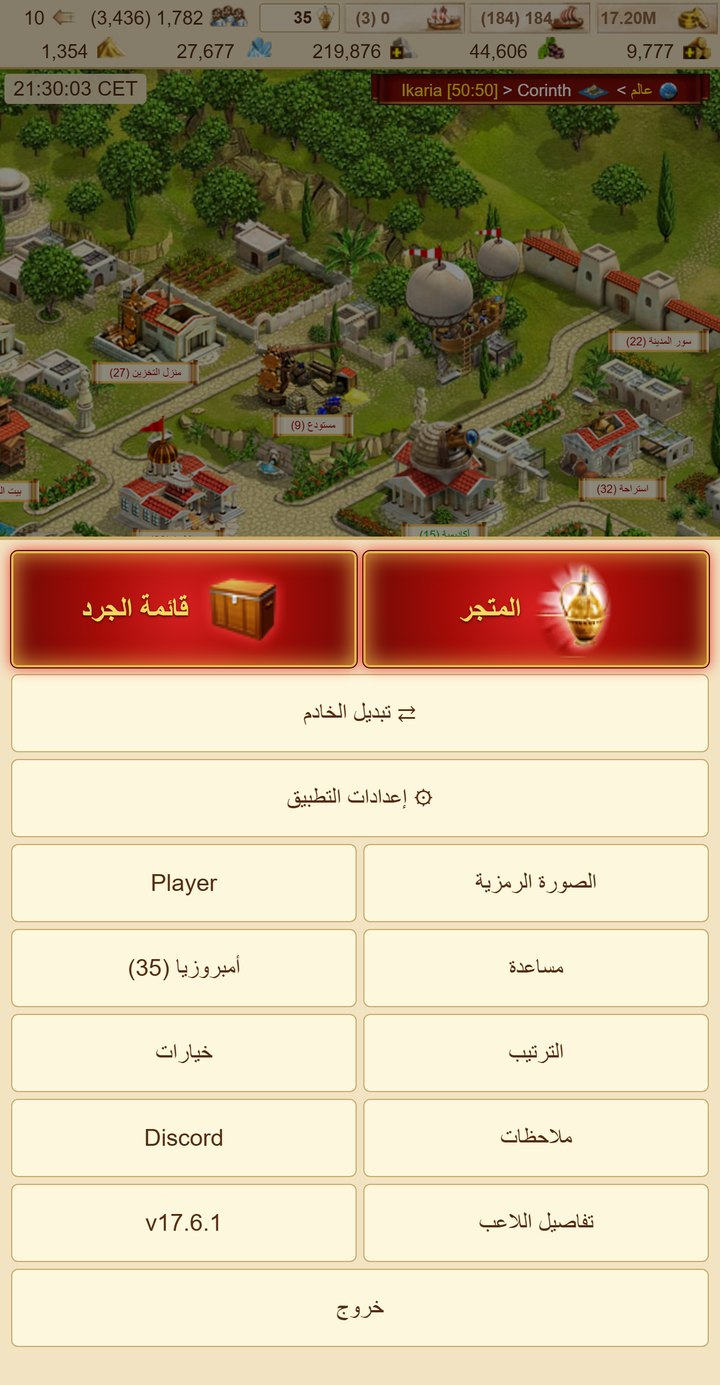
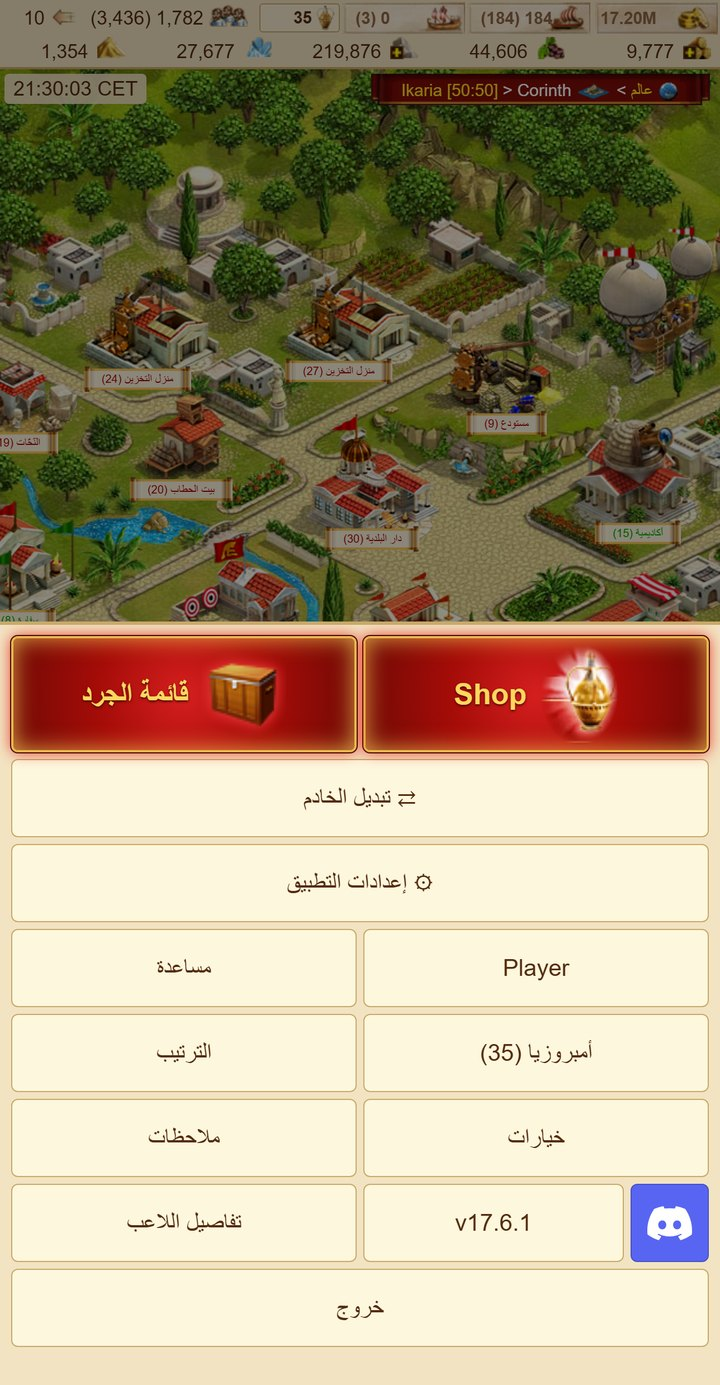
Project page: short top, big language buttons, tutorials playing, English pictures
- Each page starts with what the app is, a download button, the touch tutorial playing on a loop and six
  screenshots, all in that page's language (English pictures from the same made-up town as the Arabic ones)
- Language and download buttons drawn in the app's style; the long texts moved into fold-out sections
- More: Discord also recognised by its label (the square next to the version)

diff --git a/app/src/main/assets/enhance.js b/app/src/main/assets/enhance.js
@@ -2386,7 +2386,7 @@
     });
     // An odd number of links left a hole in the grid: Discord becomes a small square with its logo and
     // shares one cell with the version.
-    var dc = links.filter(function (l) { return /discord/i.test(l.a.href || ''); })[0];
+    var dc = links.filter(function (l) { return /discord/i.test(l.a.href || '') || /^discord$/i.test(l.label); })[0];
     var ver = links.filter(function (l) { return l.a.closest('.version'); })[0];
     var pair = links.length % 2 === 1 && dc && ver;
     links.forEach(function (l) {

diff --git a/README.ar.md b/README.ar.md
@@ -1,52 +1,61 @@
 <p align="center"><img src="docs/banner.jpg" width="100%" alt="Ikariam Mobile"></p>
 
-<p align="center"><a href="README.md"><b>English</b></a> &nbsp;|&nbsp; <b>العربية</b></p>
+<p align="center">
+<a href="README.md"><img src="docs/buttons/lang_en_off.svg" width="230" alt="Read in English"></a>
+&nbsp;
+<img src="docs/buttons/lang_ar_on.svg" width="230" alt="العربية">
+</p>
 
 <div dir="rtl">
 
-# <img src="docs/icon.png" width="40" align="center" alt=""> إيكاريام موبايل
+<h1 align="center"><img src="docs/icon.png" width="44" align="center" alt=""> إيكاريام موبايل</h1>
 
-تطبيق أندرويد للعب لعبة المتصفح **إيكاريام** براحة على الهاتف، وخاصةً في الوضع العمودي.
+<p align="center"><b>العب إيكاريام على هاتفك براحة، بإبهام واحد.</b><br>
+اللعبة الحقيقية، مرتّبة لهاتف في الوضع العمودي. مشروع غير رسمي من أحد اللاعبين.</p>
 
-هو متصفح مخصص: يفتح موقع إيكاريام الحقيقي ولا يغيّر إلا ترتيب الصفحة وطريقة وصول اللمس إليها. كل حركة في اللعبة تأتي من نقرتك أنت. وهو مشروع غير رسمي من أحد اللاعبين، ولا علاقة له بشركة Gameforge.
+<p align="center">
+<a href="https://github.com/sliver301/Ikariam-Mobile-APP/releases/latest"><img src="docs/buttons/download_ar.svg" width="380" alt="حمّل التطبيق"></a>
+</p>
 
-## التحميل
-
-**[حمّل أحدث نسخة APK](https://github.com/sliver301/Ikariam-Mobile-APP/releases/latest)**، وافتحها على هاتفك واسمح بالتثبيت من ذلك التطبيق عندما يطلب أندرويد ذلك. يحتاج أندرويد 12 أو أحدث. سجّل دخولك بحساب Gameforge كالمعتاد واختر خادمك، وسيتذكره التطبيق.
-
-**التحديثات:** يتحقق التطبيق من هذه الصفحة عند فتحه، ويعرض عليك تنزيل أي إصدار أحدث وتثبيته. أرقام الإصدارات تتبع اللعبة: التطبيق 1.17.6.1 مصنوع لإصدار اللعبة 17.6.1 (و1.17.6.1.1 هو الإصدار الثاني للتطبيق لنفس إصدار اللعبة). وعندما تنتقل اللعبة إلى إصدار جديد، يخبرك التطبيق بذلك مرة واحدة، تحسّباً لأي اختلاف في الشكل حتى يلحق به التطبيق.
-
-## صور من التطبيق
+<p align="center">
+<img src="docs/tutorial_ar.webp" width="300" alt="التحكم باللمس في 75 ثانية">
+<br><sub>التحكم باللمس في 75 ثانية · <a href="https://github.com/sliver301/Ikariam-Mobile-APP/releases/download/v1.1/Ikariam-Mobile-tutorial-ar.mp4">الفيديو بجودة كاملة</a></sub>
+</p>
 
 <p align="center">
 <img src="docs/screenshots/ar_1_city.jpg" width="30%" alt="المدينة">
 <img src="docs/screenshots/ar_2_wheel.jpg" width="30%" alt="عجلة المدن">
-<img src="docs/screenshots/ar_3_social.jpg" width="30%" alt="عمود التواصل">
+<img src="docs/screenshots/ar_4_window.jpg" width="30%" alt="نافذة مبنى">
 </p>
 <p align="center">
-<img src="docs/screenshots/ar_4_window.jpg" width="30%" alt="نافذة مبنى">
+<img src="docs/screenshots/ar_3_social.jpg" width="30%" alt="عمود التواصل">
 <img src="docs/screenshots/ar_5_more.jpg" width="30%" alt="المزيد">
 <img src="docs/screenshots/ar_6_settings.jpg" width="30%" alt="إعدادات التطبيق">
 </p>
+<p align="center"><sub>أسماء المدن واللاعب مختلَقة.</sub></p>
 
-<sub>على خادم عربي؛ أسماء المدن واللاعب مختلَقة.</sub>
+## ماذا ستحصل عليه
 
-## فيديو شرح التحكم باللمس
+- 👍 **كل شيء في متناول إبهامك:** شريط رفيع في الأعلى؛ وشريط المدن والمدينة / الجزيرة / خارطة العالم / المزيد والمستشارون في الأسفل.
+- 🎡 **عجلة المدن:** مرّر أو حرّك بسرعة بين مدنك، وانقر على مدينة للانتقال إليها.
+- 🗺 **شريط خارطة العالم:** انتقل إلى أي إحداثيات، واحتفظ بقائمة للجزر التي تحفظها.
+- 🔔 **تنبيهات الأخبار:** أخبار المستشارين على شاشة القفل، مع نص الخبر نفسه.
+- ✋ **لمس مصمَّم للعبة:** اسحب الخريطة، كبّر بإصبعين، اضغط مطوّلاً للمعلومات، وأشرطة تمرير ونقل مبانٍ سهلة.
+- 🌍 **لغتك:** يتبع لغة اللعبة (27 لغة)، معكوساً للعربية والعبرية.
+- 🔄 **يحدّث نفسه:** يعرض كل إصدار جديد عند فتحه.
 
-<p align="center">
-<a href="https://github.com/sliver301/Ikariam-Mobile-APP/releases/download/v1.1/Ikariam-Mobile-tutorial-ar.mp4"><img src="docs/screenshots/video_ar.jpg" width="30%" alt="فيديو الشرح بالعربية"></a>
-&nbsp;&nbsp;
-<a href="https://github.com/sliver301/Ikariam-Mobile-APP/releases/download/v1.1/Ikariam-Mobile-tutorial-en.mp4"><img src="docs/screenshots/video_en.jpg" width="30%" alt="فيديو الشرح بالإنجليزية"></a>
-</p>
-<p align="center">بالعربية (يمين) وبالإنجليزية (يسار)، 75 ثانية لكل منهما. والشرح موجود أيضاً داخل التطبيق.</p>
+كل حركة في اللعبة تأتي من نقرتك أنت: التطبيق لا يلعب بدلاً منك أبداً.
 
-## المزايا
+<details>
+<summary><b>كل المزايا</b></summary>
 
 **مصمَّم لإبهامك (الوضع العمودي)**
 - شريط رفيع في الأعلى (الذهب، السفن، الأمبروزيا، السكان، نقاط الحركة، الموارد، ساعة الخادم)؛ وشريط المدن والمدينة / الجزيرة / خارطة العالم / المزيد والمستشارون في الأسفل، في متناول إبهامك.
 - **عجلة المدن:** مرّر شريط المدن، أو حرّكه بسرعة ليدور بين مدنك؛ يتوقف دائماً ومدينةٌ في الوسط، ولا يغيّر المدينة وحده. انقر على المدينة المحاطة بإطار، أو على المدينة المجاورة لها، للانتقال إليها فوراً. مدينتك الحالية تبقى مُعلَّمة، وعلامةٌ فوق الشريط تعيدك إليها. يمكنك الشعور بنقرات خفيفة أثناء الدوران (ويمكن إيقافها).
 - زرّا **قائمة المدينة** و**التواصل**: اضغط لإظهار العمود أو إخفائه، أو اسحب للأعلى وارفع إصبعك عند ما تريد. إذا كنت في تحالف، يضم التواصل دردشة التحالف ورسالة التحالف فوق أصدقائك.
 - نوافذ اللعبة تملأ عرض الشاشة؛ ويمكن سحب النوافذ واللوحات الجانبية من شريطها العلوي، وتتذكر مكانها. دردشة التحالف بعرض الشاشة ونصها ضعف حجم نص اللعبة.
+- تُفتح المدن على دار البلدية؛ وعرض الجزيرة وخارطة العالم يُفتحان ومدينتك / جزيرتك في الوسط.
+- **شريط خارطة العالم:** خانتا X / Y (زر "التالي" ينتقل إلى الخانة الأخرى، ثم "انتقال" يأخذك إليها ويحدد الجزيرة) وقائمة اختصارات الجزر الخاصة باللعبة كقائمة منسدلة: جزر مدنك، ثم الجزر التي حفظتها، ولكلٍّ منها موردها واسمها وإحداثياتها. ★ يحفظ الجزيرة المحددة (باسم من اختيارك)، و✕ يحذف واحدة.
 - **المزيد:** المتجر والمخزن وديسكورد وتبديل الخادم (مباشرةً إلى أي خادم تلعب عليه من هذا الهاتف) وروابط اللعبة و**إعدادات التطبيق**: نافذة بأسلوب اللعبة فيها التخطيط واتجاه الشاشة والمفاتيح وإعادة التحميل والردهة والشرح وغير ذلك.
 - أي خادم وأي لغة: يتبع التطبيق اللغة التي تختارها في خيارات اللعبة (27 لغة)، معكوساً للعربية والعبرية.
 - قائمة المدن > تعديل الترتيب: ترتيبك الخاص للمدن، يُحفظ في الترتيب المخصص داخل اللعبة فيسري على كل أجهزتك.
@@ -54,24 +63,40 @@
 
 **التحكم باللمس**
 - النقر = نقرة. الضغط المطوّل = معلومات اللعبة عند التمرير (على الذهب أو أحد الموارد تظهر كبيرة فوق شريط المدن مباشرةً، وأي لمسة أو زر الرجوع يغلقها). الضغط ثم التحريك = سحب.
-- تُفتح المدن على دار البلدية؛ وعرض الجزيرة وخارطة العالم يُفتحان ومدينتك / جزيرتك في الوسط.
-- **شريط خارطة العالم:** خانتا X / Y (زر "التالي" ينتقل إلى الخانة الأخرى، ثم "انتقال" يأخذك إليها ويحدد الجزيرة) وقائمة اختصارات الجزر الخاصة باللعبة كقائمة منسدلة: جزر مدنك، ثم الجزر التي حفظتها، ولكلٍّ منها موردها واسمها وإحداثياتها. ★ يحفظ الجزيرة المحددة (باسم من اختيارك)، و✕ يحذف واحدة.
-- أشرطة التمرير: أمسك المقبض من مساحة واسعة حوله أو اسحب على طول الشريط؛ ونقرة اهتزاز خفيفة مع كل خطوة.
 - اسحب المدينة والجزيرة بإصبع واحد؛ والتكبير بإصبعين أو بالنقر مرتين يكبّر الخريطة فقط، لا الأشرطة.
 - إصبعان داخل نافذة (تقرير معركة مثلاً) يكبّران محتواها.
 - خانات الأرقام تفتح لوحة الأرقام (بالأرقام الإنجليزية دائماً)، والمؤشر بعد آخر رقم.
+- أشرطة التمرير: أمسك المقبض من مساحة واسعة حوله أو اسحب على طول الشريط؛ ونقرة اهتزاز خفيفة مع كل خطوة.
 - إعادة ترتيب المباني: يتحرك المبنى تحت إبهامك؛ وفوق المكان المتاح تنبض دائرة خضراء ويهتز الهاتف. زر الحفظ يحفظ، وزر الرجوع يلغي.
 - زر الرجوع يغلق ما في الأعلى؛ وعندما لا يكون شيء مفتوحاً، اضغطه مرتين للخروج من التطبيق.
-
-**تنبيهات الأخبار (اختيارية، مفعّلة افتراضياً)**
-- كل دقيقة يتحقق من كل خادم أنت مسجّل الدخول فيه بحثاً عن أخبار المستشارين (المدن، الجيش، الأبحاث، الدبلوماسية) ويهتز الهاتف (بلا صوت). يعرض التنبيه الخبر نفسه (المدينة والنص) مع صورة المستشار؛ انقر عليه لفتح ذلك الخادم عند ذلك المستشار. والأخبار التي قرأها التطبيق نيابةً عنك تبقى مميَّزة في اللعبة حتى تطّلع عليها.
-- لا يسجّل الدخول وحده أبداً. إذا خرجت من حسابك (باللعب على الحاسوب مثلاً)، يخبرك بذلك مرة واحدة مع زر "إعادة الاتصال".
-- ملاحظة: قد لا تسمح قواعد اللعبة بالتحقق في الخلفية؛ استخدمه على مسؤوليتك. يمكنك إيقافه من إعدادات التطبيق.
 
 **شرح التحكم باللمس**
 - يُعرض مرة واحدة بعد التثبيت، ويبقى دائماً في المزيد > إعدادات التطبيق. يعمل على نسخة محفوظة من مدينة (بلا أي بيانات شخصية)، بملء الشاشة، ولا يستطيع لمس حسابك. اضغط رجوع مرتين لإنهائه.
 
-## للمطوّرين
+</details>
+
+<details>
+<summary><b>تنبيهات الأخبار</b> (اختيارية، مفعّلة افتراضياً)</summary>
+
+- كل دقيقة يتحقق من كل خادم أنت مسجّل الدخول فيه بحثاً عن أخبار المستشارين (المدن، الجيش، الأبحاث، الدبلوماسية) ويهتز الهاتف (بلا صوت). يعرض التنبيه الخبر نفسه (المدينة والنص) مع صورة المستشار؛ انقر عليه لفتح ذلك الخادم عند ذلك المستشار. والأخبار التي قرأها التطبيق نيابةً عنك تبقى مميَّزة في اللعبة حتى تطّلع عليها.
+- لا يسجّل الدخول وحده أبداً. إذا خرجت من حسابك (باللعب على الحاسوب مثلاً)، يخبرك بذلك مرة واحدة مع زر "إعادة الاتصال".
+- ملاحظة: قد لا تسمح قواعد اللعبة بالتحقق في الخلفية؛ استخدمه على مسؤوليتك. يمكنك إيقافه من إعدادات التطبيق.
+
+</details>
+
+<details>
+<summary><b>كيف يعمل</b> · التثبيت · التحديثات</summary>
+
+هو متصفح مخصص: يفتح موقع إيكاريام الحقيقي ولا يغيّر إلا ترتيب الصفحة وطريقة وصول اللمس إليها. كل حركة في اللعبة تأتي من نقرتك أنت. وهو مشروع غير رسمي من أحد اللاعبين، ولا علاقة له بشركة Gameforge.
+
+**التثبيت:** حمّل ملف APK من [أحدث إصدار](https://github.com/sliver301/Ikariam-Mobile-APP/releases/latest)، وافتحه على هاتفك واسمح بالتثبيت من ذلك التطبيق عندما يطلب أندرويد ذلك. يحتاج أندرويد 12 أو أحدث. سجّل دخولك بحساب Gameforge كالمعتاد واختر خادمك، وسيتذكره التطبيق.
+
+**التحديثات:** يتحقق التطبيق من هذه الصفحة عند فتحه، ويعرض عليك تنزيل أي إصدار أحدث وتثبيته. أرقام الإصدارات تتبع اللعبة: التطبيق 1.17.6.1 مصنوع لإصدار اللعبة 17.6.1 (و1.17.6.1.1 هو الإصدار الثاني للتطبيق لنفس إصدار اللعبة). وعندما تنتقل اللعبة إلى إصدار جديد، يخبرك التطبيق بذلك مرة واحدة، تحسّباً لأي اختلاف في الشكل حتى يلحق به التطبيق.
+
+</details>
+
+<details>
+<summary><b>للمطوّرين</b></summary>
 
 <div dir="ltr">
 
@@ -81,7 +106,7 @@ app/src/main/assets/enhance.js               Page script: layout, touch handling
 app/src/main/assets/i18n.txt                 The app's own words in every language
 app/src/main/assets/tutorial/                The tutorial's captions (its saved town is built locally)
 art/                                         Scripts to build the extended city background
-build.bat                                    Local build script
+build.bat / build_public.bat                 Local build / the build for releases
 ```
 
 </div>
@@ -94,8 +119,8 @@ build.bat                                    Local build script
 
 أيقونة التطبيق عمل أصلي (يبنيها `art/make_icon.py` من `art/icon_source.png`).
 
-## إخلاء المسؤولية
+</details>
 
-إيكاريام وصورها علامات تجارية / ملكية لشركة Gameforge 4D GmbH. هذا المشروع يقدّم فقط غلاف متصفح للاستخدام الشخصي؛ يُرجى الالتزام بشروط استخدام اللعبة.
+<sub>إيكاريام وصورها علامات تجارية / ملكية لشركة Gameforge 4D GmbH. هذا المشروع يقدّم فقط غلاف متصفح للاستخدام الشخصي؛ يُرجى الالتزام بشروط استخدام اللعبة.</sub>
 
 </div>

diff --git a/README.md b/README.md
@@ -1,66 +1,69 @@
 <p align="center"><img src="docs/banner.jpg" width="100%" alt="Ikariam Mobile"></p>
 
-<p align="center"><b>English</b> &nbsp;|&nbsp; <a href="README.ar.md"><b>العربية</b></a></p>
-
-# <img src="docs/icon.png" width="40" align="center" alt=""> Ikariam Mobile
-
-An Android app for playing the browser game **Ikariam** comfortably on a phone, especially in portrait.
-
-It is a dedicated browser: it loads the real Ikariam website and only changes how the page is laid out and how
-touch reaches it. Every game action comes from your own tap. It is an unofficial fan project and is not affiliated
-with Gameforge.
-
-## Download
-
-**[Download the latest APK](https://github.com/sliver301/Ikariam-Mobile-APP/releases/latest)**, open it on your
-phone and allow installing from that app when Android asks. Android 12 or newer. Log in with your Gameforge account
-as usual and pick your server; the app remembers it.
-
-**Updates:** the app checks this page when it opens and offers to download and install a newer release for you.
-Version numbers follow the game: app 1.17.6.1 is made for game version 17.6.1 (1.17.6.1.1 is the app's second release
-for that game version). When the game moves to a new version,
-the app tells you once, in case something looks different until the app catches up.
-
-## Screenshots
-
 <p align="center">
-<img src="docs/screenshots/ar_1_city.jpg" width="30%" alt="City">
-<img src="docs/screenshots/ar_2_wheel.jpg" width="30%" alt="Town wheel">
-<img src="docs/screenshots/ar_3_social.jpg" width="30%" alt="Social column">
-</p>
-<p align="center">
-<img src="docs/screenshots/ar_4_window.jpg" width="30%" alt="A building window">
-<img src="docs/screenshots/ar_5_more.jpg" width="30%" alt="More">
-<img src="docs/screenshots/ar_6_settings.jpg" width="30%" alt="App settings">
+<img src="docs/buttons/lang_en_on.svg" width="230" alt="English">
+&nbsp;
+<a href="README.ar.md"><img src="docs/buttons/lang_ar_off.svg" width="230" alt="اقرأ بالعربية"></a>
 </p>
 
-<sub>On an Arabic server; the town and player names are made up. The app is mirrored and in English on English
-servers (see the video).</sub>
+<h1 align="center"><img src="docs/icon.png" width="44" align="center" alt=""> Ikariam Mobile</h1>
 
-## Touch tutorial videos
+<p align="center"><b>Play Ikariam on your phone, comfortably, with one thumb.</b><br>
+The real game, laid out for a phone in portrait. Unofficial fan project.</p>
 
 <p align="center">
-<a href="https://github.com/sliver301/Ikariam-Mobile-APP/releases/download/v1.1/Ikariam-Mobile-tutorial-en.mp4"><img src="docs/screenshots/video_en.jpg" width="30%" alt="Tutorial video, English"></a>
-&nbsp;&nbsp;
-<a href="https://github.com/sliver301/Ikariam-Mobile-APP/releases/download/v1.1/Ikariam-Mobile-tutorial-ar.mp4"><img src="docs/screenshots/video_ar.jpg" width="30%" alt="Tutorial video, Arabic"></a>
+<a href="https://github.com/sliver301/Ikariam-Mobile-APP/releases/latest"><img src="docs/buttons/download_en.svg" width="380" alt="Download the app"></a>
 </p>
-<p align="center">English (left) and Arabic (right), 75 seconds each. The app also has the tutorial built in.</p>
 
-## Features
+<p align="center">
+<img src="docs/tutorial_en.webp" width="300" alt="The touch controls in 75 seconds">
+<br><sub>The touch controls in 75 seconds · <a href="https://github.com/sliver301/Ikariam-Mobile-APP/releases/download/v1.1/Ikariam-Mobile-tutorial-en.mp4">full-quality video</a></sub>
+</p>
+
+<p align="center">
+<img src="docs/screenshots/en_1_city.jpg" width="30%" alt="Town">
+<img src="docs/screenshots/en_2_wheel.jpg" width="30%" alt="Town wheel">
+<img src="docs/screenshots/en_4_window.jpg" width="30%" alt="A building window">
+</p>
+<p align="center">
+<img src="docs/screenshots/en_3_social.jpg" width="30%" alt="Social column">
+<img src="docs/screenshots/en_5_more.jpg" width="30%" alt="More">
+<img src="docs/screenshots/en_6_settings.jpg" width="30%" alt="App settings">
+</p>
+<p align="center"><sub>Town and player names are made up.</sub></p>
+
+## What you get
+
+- 👍 **Everything in thumb reach:** a slim strip on top; the town bar, City / Island / World / More and the advisors at the bottom.
+- 🎡 **Town wheel:** slide or flick through your towns, tap one to go there.
+- 🗺 **World map bar:** jump to coordinates, and keep a list of saved islands.
+- 🔔 **News alerts:** the advisor's news on your lock screen, with the text itself.
+- ✋ **Touch made for the game:** drag the map, pinch to zoom, hold for info, easy sliders and building moves.
+- 🌍 **Your language:** follows the game's language (27 languages), mirrored for Arabic and Hebrew.
+- 🔄 **Updates itself:** offers each new version when you open it.
+
+Every game action comes from your own tap: the app never plays for you.
+
+<details>
+<summary><b>All features</b></summary>
 
 **Made for your thumb (portrait)**
 - A slim strip on top (gold, ships, Ambrosia, citizens, action points, resources, the server clock); the town bar,
-  City / Island / World / More and the advisors at the bottom, in reach of your thumb.
+  City / Island / World / More and the advisors at the bottom.
 - **Town wheel:** slide the town bar, or flick it to spin through your towns; it rests with one town in the middle
-  and never switches by itself. Tap the ringed town, or the town just beside it, to go there at once. Your own town stays marked, and a tag above
-  the bar takes you back. Small notches can be felt while it turns (can be turned off).
+  and never switches by itself. Tap the ringed town, or the town just beside it, to go there at once. Your own town
+  stays marked, and a tag above the bar takes you back. Small notches can be felt while it turns (can be turned off).
 - **Town menu and Social** buttons: press to show or hide the column, or slide up and let go on the item you want.
   In an alliance, Social holds the alliance chat and alliance message on top of your friends.
 - Game windows fill the screen's width; windows and side panels can be dragged by their top bar and remember where
   you left them. The alliance chat is full width with text twice the game's size.
-- **More:** the shop, inventory, Discord, switch server (straight to any server you play on this phone), the game's links and
-  **App settings**: a window in the game's style with layout, rotation, the switches, reload, lobby, the tutorial
-  and more.
+- Towns open on their Town Hall; the island view and the world map open with your town / island in the middle.
+- **World map bar:** X / Y boxes (Next goes to the other box, then Go jumps there and selects the island) and the
+  game's island shortcut list as a dropdown: your towns' islands, then the islands you saved, each with its
+  resource, name and coordinates. ★ saves the selected island (with your own name), ✕ removes one.
+- **More:** the shop, inventory, Discord, switch server (straight to any server you play on this phone), the game's
+  links and **App settings**: a window in the game's style with layout, rotation, the switches, reload, lobby, the
+  tutorial and more.
 - Any server, any language: the app follows the language you choose in the game's Options (27 languages), mirrored
   for Arabic and Hebrew.
 - Town list > Edit order: your own town order, saved to the game's custom sorting so it applies everywhere.
@@ -69,19 +72,23 @@ servers (see the video).</sub>
 **Touch controls**
 - Tap = click. Hold = the game's hover info (on gold or a resource it shows large, just above the town bar; any
   touch or Back closes it). Hold and move = drag.
-- Towns open on their Town Hall; the island view and the world map open with your town / island in the middle.
-- **World map bar:** X / Y boxes (Next goes to the other box, then Go jumps there and selects the island) and the
-  game's island shortcut list as a dropdown: your towns' islands, then the islands you saved, each with its
-  resource, name and coordinates. ★ saves the selected island (with your own name), ✕ removes one.
-- Sliders: take the knob from a wide band around it or slide along the track; a small tick on every step.
 - Drag the city and island with one finger; pinch or double-tap zooms the map only, never the bars.
 - Two fingers inside a window (for example a battle report) zoom its content.
 - Number boxes open the number pad (always English digits), with the cursor after the last digit.
+- Sliders: take the knob from a wide band around it or slide along the track; a small tick on every step.
 - Rearrange buildings: the building moves under your thumb; on a free place a green ring pulses and the phone
   buzzes. Save saves, Back cancels.
 - Back closes what is on top; with nothing open, Back twice leaves the app.
 
-**News alerts (optional, on by default)**
+**Touch tutorial**
+- Offered once after installing, and always under More > App settings. It plays on a saved copy of a town (no
+  personal details), full screen, and cannot touch your account. Back twice ends it.
+
+</details>
+
+<details>
+<summary><b>News alerts</b> (optional, on by default)</summary>
+
 - Every minute it checks each server you are logged in to for advisor news (towns, military, research, diplomacy)
   and vibrates (no sound). The alert shows the news itself (town and text) with the advisor's picture; tap it to
   open that server at that advisor. News the app read for you stays highlighted in the game until you have looked.
@@ -90,11 +97,28 @@ servers (see the video).</sub>
 - Note: background checks may not be allowed by the game's rules; use at your own risk. Turn them off in App
   settings.
 
-**Touch tutorial**
-- Offered once after installing, and always under More > App settings. It plays on a saved copy of a town (no
-  personal details), full screen, and cannot touch your account. Back twice ends it.
+</details>
 
-## For developers
+<details>
+<summary><b>How it works</b> · install · updates</summary>
+
+It is a dedicated browser: it loads the real Ikariam website and only changes how the page is laid out and how
+touch reaches it. Every game action comes from your own tap. It is an unofficial fan project and is not affiliated
+with Gameforge.
+
+**Install:** download the APK from the [latest release](https://github.com/sliver301/Ikariam-Mobile-APP/releases/latest),
+open it on your phone and allow installing from that app when Android asks. Android 12 or newer. Log in with your
+Gameforge account as usual and pick your server; the app remembers it.
+
+**Updates:** the app checks this page when it opens and offers to download and install a newer release for you.
+Version numbers follow the game: app 1.17.6.1 is made for game version 17.6.1 (1.17.6.1.1 is the app's second release
+for that game version). When the game moves to a new version, the app tells you once, in case something looks
+different until the app catches up.
+
+</details>
+
+<details>
+<summary><b>For developers</b></summary>
 
 ```
 app/src/main/java/com/islam/ikariamtouch/   Android side (WebView, back button, settings, alerts, tutorial)
@@ -102,7 +126,7 @@ app/src/main/assets/enhance.js               Page script: layout, touch handling
 app/src/main/assets/i18n.txt                 The app's own words in every language
 app/src/main/assets/tutorial/                The tutorial's captions (its saved town is built locally)
 art/                                         Scripts to build the extended city background
-build.bat                                    Local build script
+build.bat / build_public.bat                 Local build / the build for releases
 ```
 
 Requirements: JDK 17+ (Android Studio's bundled JBR works), Android SDK (compileSdk 37), Gradle 9.6. Run
@@ -120,7 +144,7 @@ release APK includes them.
 
 The app icon is original artwork (`art/make_icon.py` builds it from `art/icon_source.png`).
 
-## Disclaimer
+</details>
 
-Ikariam and its artwork are trademarks / property of Gameforge 4D GmbH. This project only provides a browser
-wrapper for personal use; please follow the game's terms of service.
+<sub>Ikariam and its artwork are trademarks / property of Gameforge 4D GmbH. This project only provides a browser
+wrapper for personal use; please follow the game's terms of service.</sub>
